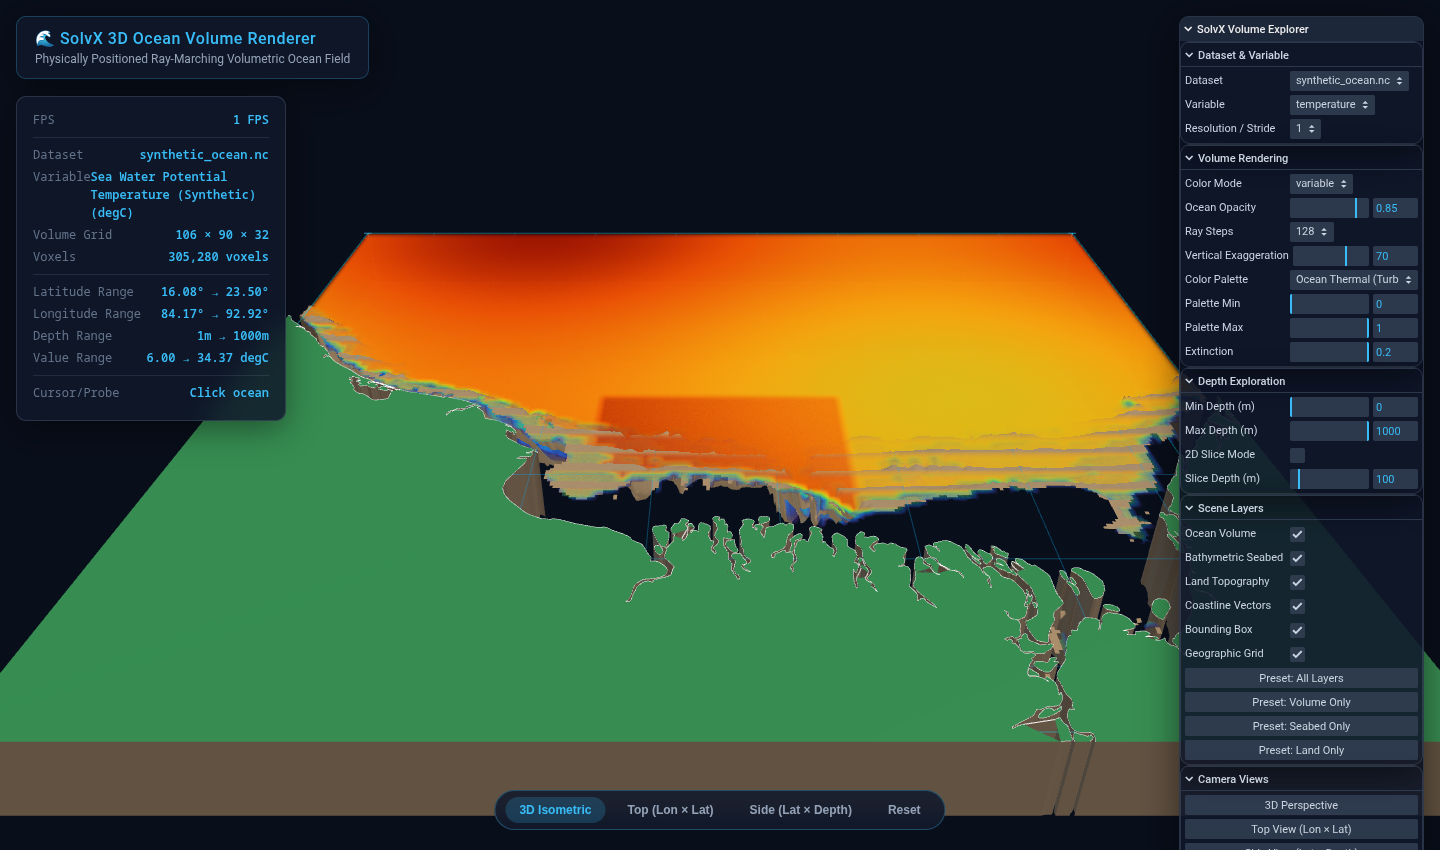
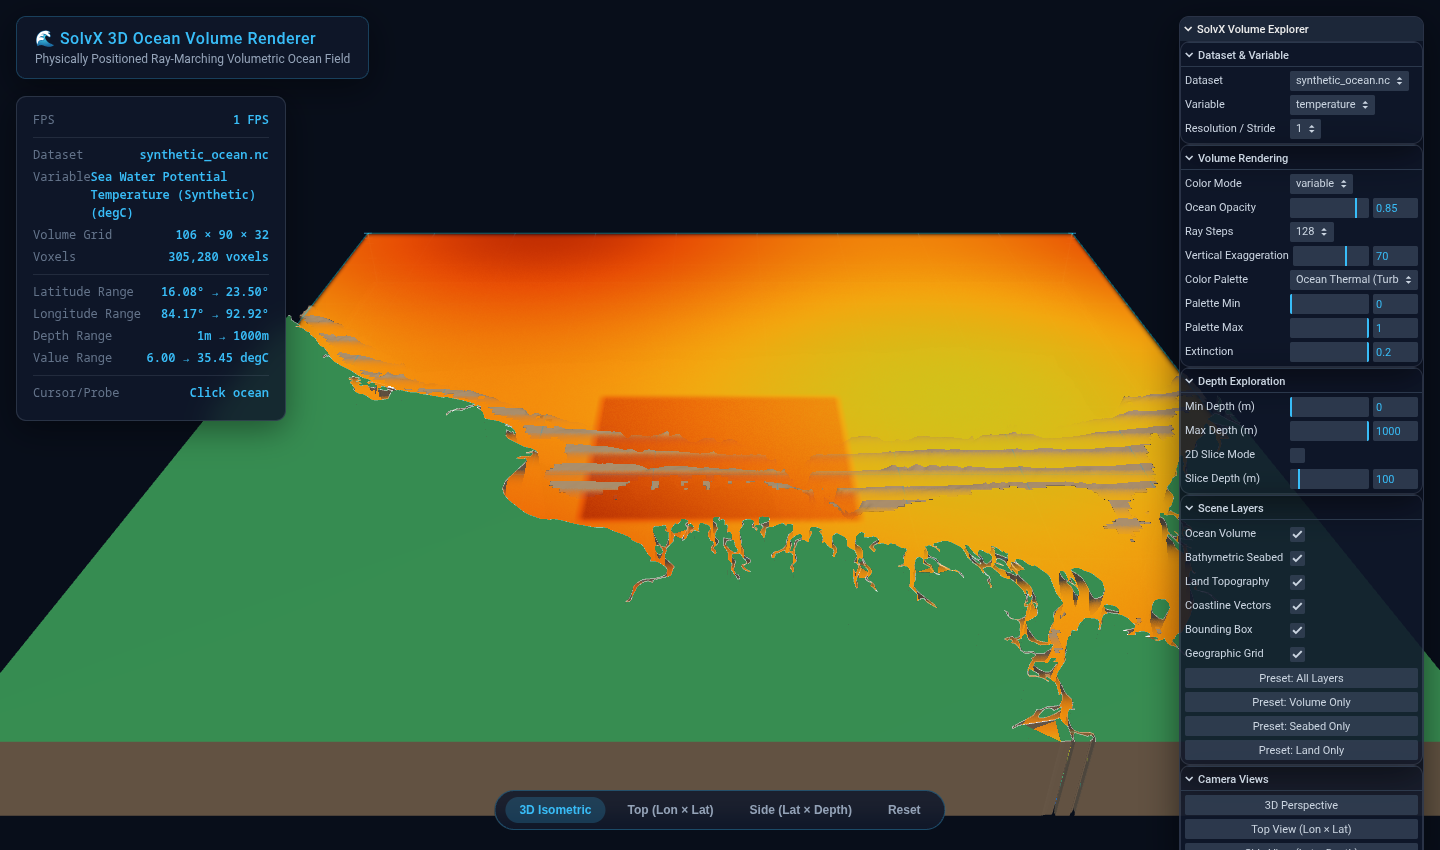
fix(renderer): restore original SolvX ocean volume renderer and decouple from seabed bathymetry

Changed region(s): [[0.3125, 0.4588, 0.8438, 0.8871], [0.2812, 0.2753, 0.4688, 0.3365], [0.1875, 0.3671, 0.3125, 0.4894]]

diff --git a/solvx-volume-test/frontend/renderer/VolumeRenderer.js b/solvx-volume-test/frontend/renderer/VolumeRenderer.js
@@ -59,13 +59,6 @@ uniform float random;
 uniform sampler2D depthTexture;
 #endif
 
-// Bathymetric seafloor and land clipping
-uniform sampler2D bathymetryTexture;
-uniform vec4 bathyBounds;
-uniform vec4 datasetBounds;
-uniform float verticalExaggeration;
-uniform float hasBathymetry;
-
 // Volume spatial transforms
 uniform sampler3D volumeData;
 uniform vec3 volumeOrigin;
@@ -162,37 +155,11 @@ void main() {
         }
 #endif
 
-        // Never sample above ocean surface (Y = 0)
-        if (position.y > 0.01) {
-            continue;
-        }
-
-        // Authoritative 2D bathymetric seafloor and land clipping
-        if (hasBathymetry > 0.5) {
-            float normX = clamp((position.x - volumeOrigin.x) / volumeSize.x, 0.0, 1.0);
-            float normZ = clamp((position.z - volumeOrigin.z) / volumeSize.z, 0.0, 1.0);
-            float lon = datasetBounds.x + normX * (datasetBounds.y - datasetBounds.x);
-            float lat = datasetBounds.z + normZ * (datasetBounds.w - datasetBounds.z);
-
-            float bathyU = (lon - bathyBounds.x) / (bathyBounds.y - bathyBounds.x);
-            float bathyV = (lat - bathyBounds.z) / (bathyBounds.w - bathyBounds.z);
-
-            float localSeabedDepth = texture(bathymetryTexture, clamp(vec2(bathyU, bathyV), 0.0, 1.0)).r;
-            float samplePhysicalDepth = max(0.0, (-position.y / verticalExaggeration) * 1000.0);
-
-            // Discard samples on land (<= 20m) or deeper than the local seafloor
-            if (localSeabedDepth <= 20.0 || samplePhysicalDepth > localSeabedDepth) {
-                continue;
-            }
-        }
-
         float sampledValue = sampleVolume(position);
         float scaledValue = sampledValue * valueMultiplier + valueAdded;
 
         // Discard NaN/masked voxels (encoded as 0.0) below minCutoffValue
-        if (scaledValue < minCutoffValue || scaledValue > maxCutoffValue) {
-            continue;
-        }
+        stepWeight *= step(minCutoffValue, scaledValue) * step(scaledValue, maxCutoffValue);
 
         // Normalize for palette lookup
         float normalizedValue = clamp((scaledValue - minPaletteValue) / max(maxPaletteValue - minPaletteValue, 1e-6), 0.0, 1.0);
@@ -253,12 +220,6 @@ export default class VolumeRenderer extends THREE.Mesh {
         extinctionCoefficient: { value: 0.20 },
         extinctionMultiplier:  { value: 1.0 },
         alphaMultiplier:       { value: 0.85 },
-
-        bathymetryTexture:     { value: null },
-        bathyBounds:           { value: new THREE.Vector4(84.105, 92.993, 16.071, 23.524) },
-        datasetBounds:         { value: new THREE.Vector4(84.167, 92.917, 16.083, 23.500) },
-        verticalExaggeration:  { value: 70.0 },
-        hasBathymetry:         { value: 0.0 },
     };
 
     constructor(options = {}) {
@@ -298,11 +259,6 @@ export default class VolumeRenderer extends THREE.Mesh {
             extinctionCoefficient: this.uniforms.extinctionCoefficient,
             extinctionMultiplier:  this.uniforms.extinctionMultiplier,
             alphaMultiplier:       this.uniforms.alphaMultiplier,
-            bathymetryTexture:     this.uniforms.bathymetryTexture,
-            bathyBounds:           this.uniforms.bathyBounds,
-            datasetBounds:         this.uniforms.datasetBounds,
-            verticalExaggeration:  this.uniforms.verticalExaggeration,
-            hasBathymetry:         this.uniforms.hasBathymetry,
         };
 
         if (this.material) {

diff --git a/solvx-volume-test/frontend/scene/ocean.js b/solvx-volume-test/frontend/scene/ocean.js
@@ -55,21 +55,8 @@ export class OceanVolumeManager {
         this.volumeRenderer.uniforms.palette.value = tex;
     }
 
-    setBathymetry(bathyObj) {
-        if (!bathyObj) return;
-        const uniforms = this.volumeRenderer.uniforms;
-        uniforms.bathymetryTexture.value = bathyObj.texture;
-        uniforms.bathyBounds.value.set(
-            bathyObj.bounds[0],
-            bathyObj.bounds[1],
-            bathyObj.bounds[2],
-            bathyObj.bounds[3]
-        );
-        uniforms.hasBathymetry.value = 1.0;
-    }
-
     setVerticalExaggeration(exVal) {
-        this.volumeRenderer.uniforms.verticalExaggeration.value = exVal;
+        // Exaggeration is baked into geoConfig transforms and volume bounds
     }
 
     applyVolumeData(volumeResult) {
@@ -81,19 +68,6 @@ export class OceanVolumeManager {
         uniforms.volumeOrigin.value.copy(volumeResult.volumeOrigin);
         uniforms.volumeResolution.value.copy(volumeResult.volumeResolution);
         uniforms.voxelSize.value.copy(volumeResult.voxelSize);
-
-        const ex = volumeResult.geoConfig?.verticalExaggeration || 70.0;
-        uniforms.verticalExaggeration.value = ex;
-
-        const metaBounds = volumeResult.meta?.bounds;
-        if (metaBounds) {
-            uniforms.datasetBounds.value.set(
-                metaBounds.lon_min,
-                metaBounds.lon_max,
-                metaBounds.lat_min,
-                metaBounds.lat_max
-            );
-        }
 
         // Reset clipping to entire volume
         const b = volumeResult.worldBounds;

diff --git a/solvx-volume-test/frontend/main.js b/solvx-volume-test/frontend/main.js
@@ -11,7 +11,6 @@ import { buildSeabedMesh } from './scene/seabed.js';
 import { buildCoastlines } from './scene/coastline.js';
 import { GeographicTransform } from './scene/geographicTransform.js';
 import { createOceanVolumeTexture } from './renderer/volumeTexture.js';
-import { createBathymetryTexture } from './renderer/bathymetryTexture.js';
 import { AppGui } from './controls/gui.js';
 import { OceanProbe } from './controls/controls.js';
 
@@ -27,7 +26,6 @@ class App {
         this.coastlineMesh = null;
         this.geometryData = null;
         this.bathymetryData = null;
-        this.bathymetryTextureObj = null;
         this.datasetMeta = null;
         this.geoConfig = null;
 
@@ -165,13 +163,6 @@ class App {
 
             this.geometryData = geomRes;
             this.bathymetryData = bathyRes;
-
-            if (this.bathymetryData) {
-                this.bathymetryTextureObj = createBathymetryTexture(this.bathymetryData);
-                if (this.oceanManager) {
-                    this.oceanManager.setBathymetry(this.bathymetryTextureObj);
-                }
-            }
 
             this.rebuildGeographicLayers();
 

diff --git a/solvx-volume-test/backend/volume_processor.py b/solvx-volume-test/backend/volume_processor.py
@@ -118,15 +118,6 @@ class VolumeProcessor:
         depths_arr = np.array(final_depths, dtype=np.float32)
         bathy_grid = bathy_service.get_depth_grid(lats_arr, lons_arr)
 
-        # Land mask: where bathymetry <= 20m, water is completely masked
-        land_mask_2d = bathy_grid <= 20.0
-        valid_mask[:, land_mask_2d] = False
-
-        # Water mask below seabed: for each depth level z, if depth > bathy_grid, mask out
-        for z in range(nz):
-            below_seabed = depths_arr[z] > bathy_grid
-            valid_mask[z, below_seabed] = False
-
         # 7. Support debug color modes (Section 27)
         if color_mode == "depth":
             depth_3d = depths_arr[:, np.newaxis, np.newaxis]
